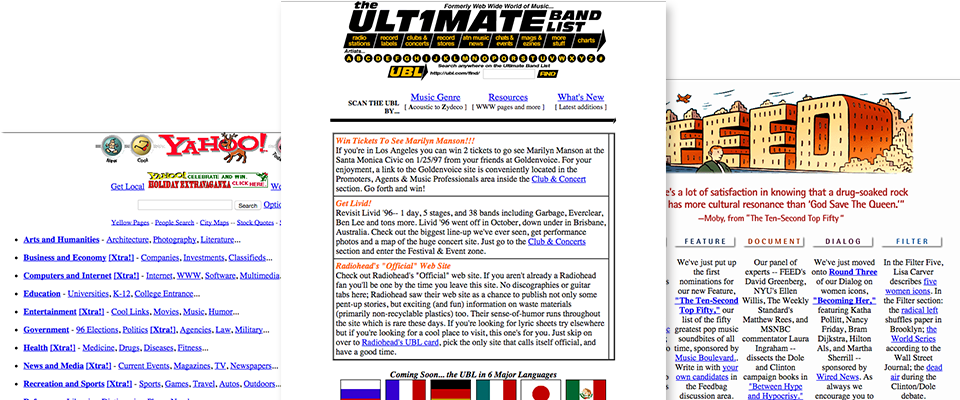
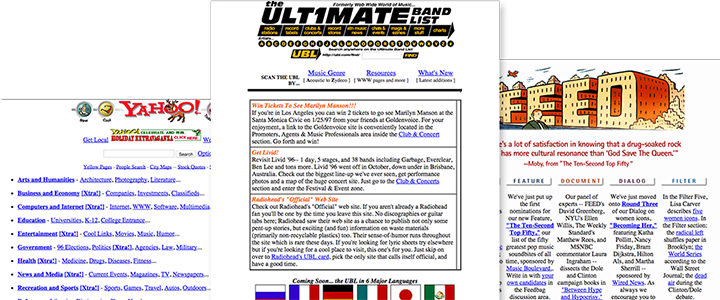
agregué imagen a segunda sección

diff --git a/src/index.html b/src/index.html
@@ -114,12 +114,8 @@
                     <h1 class="titulo-epoca">1993-1995 Diseño web Con Tablas</h1>
                     <p class="bajada">Con la llegada de Mosaic en 1993 se consiguen los principales logros gráficos a través de imágenes que se incorporaron. Además, se acerca al usuario común el uso del internet y los navegadores. Aparecen los primeros indicios de Usabilidad e Interface. Se visualizan y distinguen las estructuras básicas de un sitio: Menú, buscador, contenido y footer. </p>
             </div>
-            <div class="col-lg-4">
-            </div>
-            <div class="col-lg-4">
-                    imagenes
-            </div>
-            <div class="col-lg-4">
+            <div class="col-lg-12">
+                <img class="img-responsive" src="images/tablas_foto.png">
             </div>
         </div>
     </section><!-- /.section -->
@@ -170,7 +166,7 @@
     <section class="section ascenso_prt2">
         <div class="container">
             <div class="col-lg-12">
-                    <p>Esto creó un nuevo elemento que antes no estaba considerado en la elaboración de sitios web, y es la Experiencia de Usuario (UX). Ahora, aparte de considerar una estrategia basada en la usabilidad y arquitectura de la información, también un elemento a considerar era en cómo hacer sentir al usuario al navegar en un sitio web. Esto cobró realmente mucha importancia, pues cada vez era más soprendente navegar por internet. </p>
+                    <p>Esto creó un nuevo elemento que antes no estaba considerado en la elaboración de sitios web, y es la Experiencia de Usuario (UX). Ahora, aparte de considerar una estrategia basada en la usabilidad y arquitectura de la información, también un elemento a considerar era en cómo hacer sentir al usuario al navegar en un sitio web. Esto cobró realmente mucha importancia, pues cada vez era más soprendente navegar por internet.</p>
             </div>
              <div class="col-lg-4">
                 <div class="recuadro-texto">
